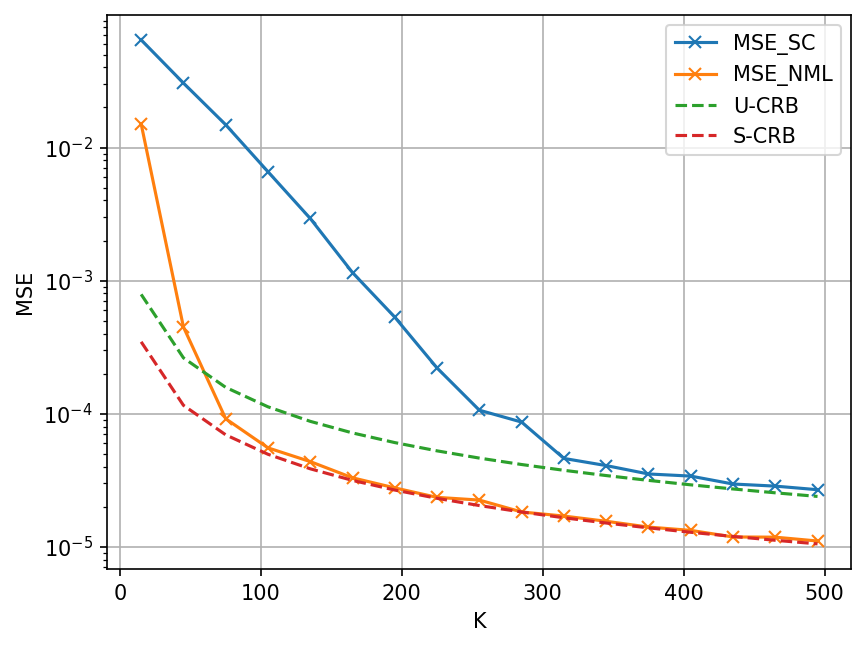
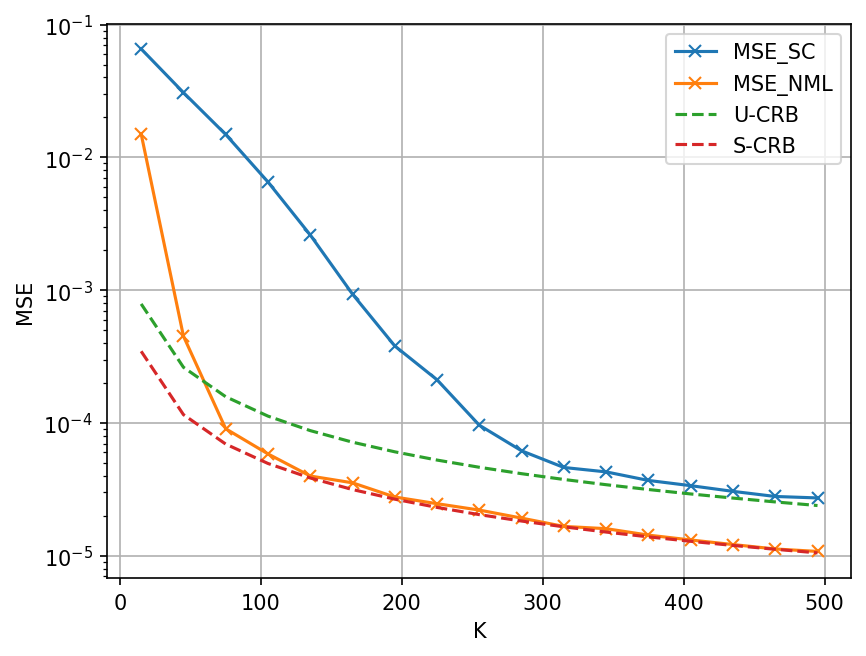
dimension convention

Changed region(s): [[0.0, 0.0, 0.9977, 0.9274], [0.4365, 0.6801, 0.5612, 0.711]]

diff --git a/python/nml/solver.py b/python/nml/solver.py
@@ -11,7 +11,7 @@ class NMLSolver:
     Parameters
     ----------
     n : int
-        The covariance matrix has dimension n+1.
+        Dimension of the covariance matrix.
     tol : float
         Convergence tolerance on Newton decrement.
     beta : float
@@ -24,23 +24,23 @@ class NMLSolver:
 
     def __init__(self, n, tol=1e-8, beta=0.8, alpha=0.05, max_iter=200):
         self._n = n
-        self._solver = _nml.new_solver(n, tol, beta, alpha, max_iter)
+        self._solver = _nml.new_solver(n - 1, tol, beta, alpha, max_iter)
 
     def solve(self, Z, verbose=False):
         """Solve given a data matrix Z.
 
         Parameters
         ----------
-        Z : np.ndarray, complex128, shape (n+1, K)
-            Data matrix with K measurement vectors of dimension n+1.
+        Z : np.ndarray, complex128, shape (n, K)
+            Data matrix with K measurement vectors of dimension n.
         verbose : bool
             Print iteration progress.
 
         Returns
         -------
         dict with keys:
-            'x' : np.ndarray, shape (n+1,) — real part of first column of R
-            'y' : np.ndarray, shape (n,)   — imaginary part of first column of R
+            'x' : np.ndarray, shape (n,)   — real part of first column of R
+            'y' : np.ndarray, shape (n-1,) — imaginary part of first column of R
             'obj' : float                  — final objective value
             'grad_norm' : float            — gradient norm at solution
             'time' : float                 — solve time in seconds
@@ -53,10 +53,10 @@ class NMLSolver:
 
         Z = np.asarray(Z, dtype=np.complex128, order="F")
         if Z.ndim != 2:
-            raise ValueError("Z must be a 2D array of shape (n+1, K)")
-        if Z.shape[0] != self._n + 1:
+            raise ValueError("Z must be a 2D array of shape (n, K)")
+        if Z.shape[0] != self._n:
             raise ValueError(
-                f"Z has {Z.shape[0]} rows but solver expects {self._n + 1}"
+                f"Z has {Z.shape[0]} rows but solver expects {self._n}"
             )
 
         return _nml.solve(self._solver, Z, int(verbose))

diff --git a/python/examples/simple.py b/python/examples/simple.py
@@ -1,0 +1,41 @@
+"""Simple example: estimate a Toeplitz covariance matrix from data."""
+import numpy as np
+from scipy.linalg import toeplitz
+from nml import NMLSolver
+
+
+def random_toeplitz_cov(n):
+    """Generate a random n x n positive definite Toeplitz matrix."""
+    x = np.random.randn(n) + 1j * np.random.randn(n)
+    M = 2 * n - 1
+    z = np.fft.ifft(np.abs(np.fft.fft(x, M)) ** 2) / M
+    first_col = z[:n]
+    first_col[0] = first_col[0].real
+    return toeplitz(first_col)
+
+np.random.seed(0) 
+# Ground truth: a 4x4 Toeplitz covariance matrix
+n = 4
+R_true = random_toeplitz_cov(n)
+
+# Generate data
+K = 5 * n
+L = np.linalg.cholesky(R_true)
+Z = L @ (np.random.randn(n, K) + 1j * np.random.randn(n, K)) / np.sqrt(2)
+
+# Solve
+solver = NMLSolver(n)
+result = solver.solve(Z, verbose=True)
+solver.free()
+
+# Reconstruct the estimated Toeplitz matrix
+x, y = result["x"], result["y"]
+R_hat = toeplitz(np.concatenate([[2 * x[0]], x[1:] - 1j * y]))
+
+
+# benchmark against sample covariance
+sample_cov = (Z @ Z.conj().T) / K
+error_sample_cov = np.linalg.norm(sample_cov - R_true, 'fro') / np.linalg.norm(R_true, 'fro')
+error_nml = np.linalg.norm(R_hat - R_true, 'fro') / np.linalg.norm(R_true, 'fro')
+print(f"Relative Frobenius norm error (sample covariance): {error_sample_cov:.4f}")
+print(f"Relative Frobenius norm error (NML estimate): {error_nml:.4f}")

diff --git a/matlab/examples/demo.m b/matlab/examples/demo.m
@@ -32,8 +32,7 @@ average_solve_time = 0;
 average_iter = 0;
 
 % Create solver
-n = m - 1;
-solver = nml_new_solver(n, tol, beta, alpha, max_iter);
+solver = nml_new_solver(m, tol, beta, alpha, max_iter);
 
 for ii = 1:length(samples)
     K = samples(ii);
@@ -43,13 +42,12 @@ for ii = 1:length(samples)
         [Y, true_cov] = generate_ula_data(power_source, sig2, d, m, M, K, ...
               wavelength, theta_rad);
         [dim, K] = size(Y);
-        n = dim - 1;
 
         % Estimate covariance matrix.
         sample_cov = 1/K*(Y*Y');
         [x, y, grad_norm, obj, solve_time, iter] = ...
             nml_solve(solver, Y, verbose);
-        NML_cov = toeplitz([2*x(1); x(2:end) + 1i*y]);
+        NML_cov = toeplitz([2*x(1); x(2:end) - 1i*y]);
 
         average_solve_time = average_solve_time + solve_time;
         average_iter = average_iter + iter;

diff --git a/matlab/nml_new_solver_mex.c b/matlab/nml_new_solver_mex.c
@@ -3,7 +3,8 @@
 #include "nml/NML_solver.h"
 #include <stdint.h>
 
-/* nml_new_solver(n, tol, beta, alpha, max_iter) -> solver_ptr (uint64) */
+/* nml_new_solver(n, tol, beta, alpha, max_iter) -> solver_ptr (uint64)
+   n is the dimension of the covariance matrix. */
 void mexFunction(int nlhs, mxArray *plhs[], int nrhs, const mxArray *prhs[])
 {
     if (nrhs != 5)
@@ -18,7 +19,7 @@ void mexFunction(int nlhs, mxArray *plhs[], int nrhs, const mxArray *prhs[])
     double alpha = mxGetScalar(prhs[3]);
     int max_iter = (int) mxGetScalar(prhs[4]);
 
-    NML_solver *solver = nml_new_solver(n, tol, beta, alpha, max_iter);
+    NML_solver *solver = nml_new_solver(n - 1, tol, beta, alpha, max_iter);
     if (!solver)
     {
         mexErrMsgTxt("Failed to create solver");

diff --git a/python/examples/demo.py b/python/examples/demo.py
@@ -34,8 +34,7 @@ def main():
     max_iter = 100
 
     # Create solver
-    n = m - 1
-    solver = NMLSolver(n, tol=tol, beta=beta, alpha=alpha, max_iter=max_iter)
+    solver = NMLSolver(m, tol=tol, beta=beta, alpha=alpha, max_iter=max_iter)
 
     # Containers
     MSE_SC = np.zeros(len(samples))
@@ -58,7 +57,7 @@ def main():
             # NML estimate
             result = solver.solve(Y, verbose=False)
             x, y = result["x"], result["y"]
-            first_col = np.concatenate([[2 * x[0]], x[1:] + 1j * y])
+            first_col = np.concatenate([[2 * x[0]], x[1:] - 1j * y])
             nml_cov = toeplitz(first_col)
 
             total_solve_time += result["time"]

diff --git a/matlab/examples_paper/utils/estimates_cov.m b/matlab/examples_paper/utils/estimates_cov.m
@@ -18,7 +18,7 @@ if iter >= 100
     fprintf("Number of Newton iterations: %i \n", iter)
     fprintf("Number of Newton iterations: %i \n", grad_norm)
 end
-NML_out.estimate = toeplitz([2*x(1); x(2:end) + 1i*y]);
+NML_out.estimate = toeplitz([2*x(1); x(2:end) - 1i*y]);
 NML_out.solve_time = NML_time;
 NML_out.iter = iter;
 

diff --git a/README.md b/README.md
@@ -19,11 +19,12 @@ applications can be found in our [paper](https://www.sciencedirect.com/science/a
 ## Installation
 
 ### Python <img src="https://cdn.jsdelivr.net/gh/devicons/devicon/icons/python/python-original.svg" height="20" />
-**Prerequisites:** [FFTW3](https://www.fftw.org/) must be installed on your system.
-- macOS: `brew install fftw`
-- Linux: `sudo apt install libfftw3-dev`
+Install from PyPI:
+```
+pip install nml-toeplitz
+```
 
-Then install with pip:
+Alternatively, to install from source, [FFTW3](https://www.fftw.org/) must be installed on your system (`brew install fftw` on macOS, `sudo apt install libfftw3-dev` on Linux):
 ```
 pip install .
 ```
@@ -45,17 +46,17 @@ cmake --build build
 
 ## Usage
 
-The solver follows a create-solve-free pattern. First create a solver for a given problem size and algorithmic parameters, then call solve (potentially multiple times with different data), and finally free the solver.
+The solver follows a create-solve-free pattern. First create a solver for a given problem size and algorithmic parameters, then call solve (potentially multiple times with different data), and finally free the solver. The solver returns vectors `x` (length n) and `y` (length n-1). The first column of the estimated Toeplitz covariance matrix is `[2*x[0], x[1] - 1j*y[0], x[2] - 1j*y[1], ...]`.
 
 ### Python <img src="https://cdn.jsdelivr.net/gh/devicons/devicon/icons/python/python-original.svg" height="20" />
 ```python
 import numpy as np
 from nml import NMLSolver
 
-# Create solver for dimension n+1
+# Create solver for dimension n
 solver = NMLSolver(n)
 
-# Z is a (n+1, K) complex data matrix
+# Z is a (n, K) complex data matrix
 result = solver.solve(Z)
 x, y = result["x"], result["y"]
 
@@ -68,12 +69,12 @@ solver.free()
 
 ### MATLAB <img src="https://cdn.jsdelivr.net/gh/devicons/devicon/icons/matlab/matlab-original.svg" height="20"/>
 ```matlab
-% Create solver for dimension n+1
+% Create solver for dimension n
 solver = nml_new_solver(n, tol, beta, alpha, max_iter);
 
-% Solve: Z is a (n+1) x K complex data matrix
+% Solve: Z is a n x K complex data matrix
 [x, y, grad_norm, obj, solve_time, iter] = nml_solve(solver, Z, verbose);
-R_hat = toeplitz([2*x(1); x(2:end) + 1i*y]);
+R_hat = toeplitz([2*x(1); x(2:end) - 1i*y]);
 
 % Free solver
 nml_free_solver(solver);
